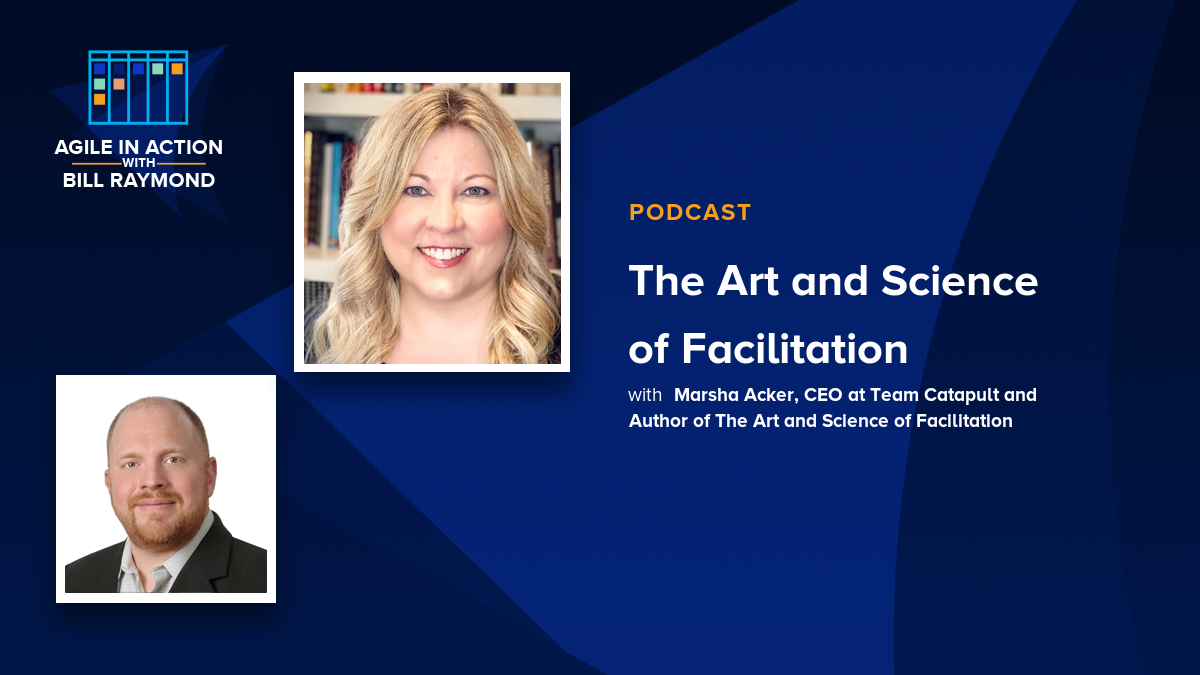
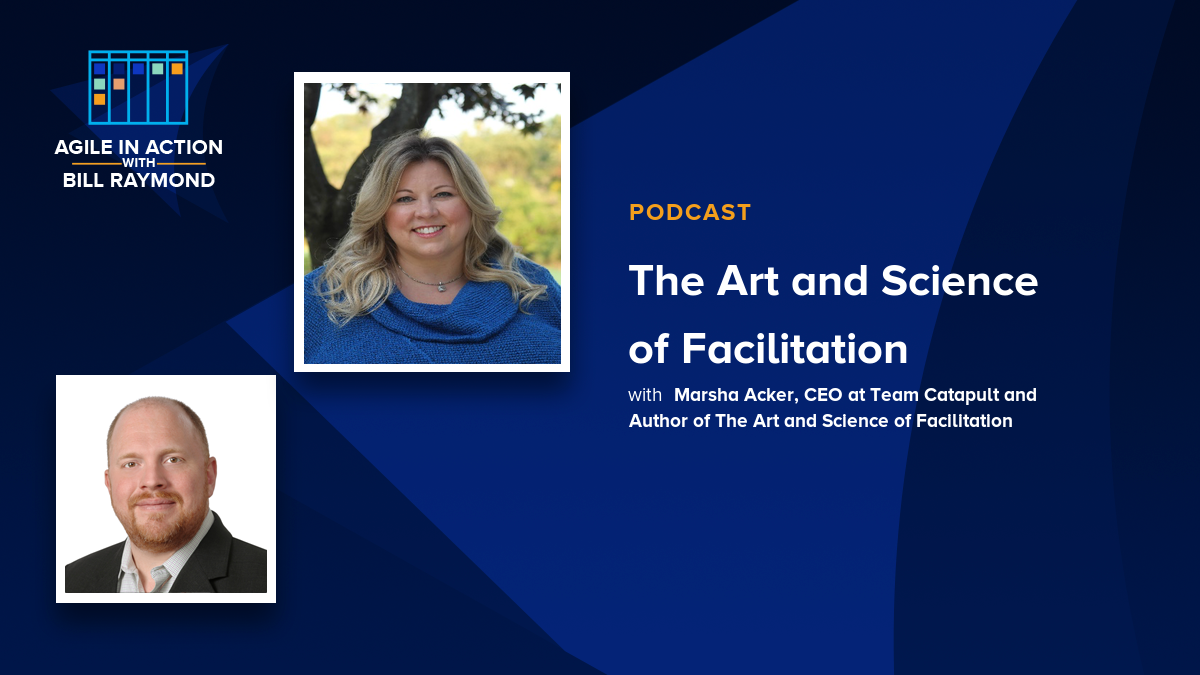
Jekyll build from Action

Changed region(s): [[0.2467, 0.1244, 0.4933, 0.56]]

diff --git a/guestphotos.html b/guestphotos.html
@@ -24,7 +24,7 @@
       
       <h2>Title:The Art and Science of Facilitation</h2># Guests:1<p>Guest: Marsha Acker, CEO at Team Catapult and Author of The Art and Science of Facilitation</p>
         <p>Photo:</p>
-        <p><img src="/uploads/marsha.jpg" alt=""> </p><h2>Title:Risk-driven security in agile software development</h2># Guests:1<p>Guest:Dan Ionita, Consultant and Trainer</p>
+        <p><img src="/uploads/marsha-acker.png" alt=""> </p><h2>Title:Risk-driven security in agile software development</h2># Guests:1<p>Guest:Dan Ionita, Consultant and Trainer</p>
         <p>Photo:</p>
         <p><img src="/uploads/ionitia.jpg" alt=""> </p><h2>Title:Introducing Objectives and Key Results (OKRs)</h2># Guests:1<p>Guest:Jeff Gothelf, Author, Consultant, and Speaker</p>
         <p>Photo:</p>

diff --git a/admin.html b/admin.html
@@ -52,7 +52,7 @@
         
         <div class="gcp-cards-1">
             
-            <img src="/uploads/marsha.jpg" alt="" class="gcp-card"></div>
+            <img src="/uploads/marsha-acker.png" alt="" class="gcp-card"></div>
         <div class="gcp-play"><img src="/assets/guests-card/play-circle.png" alt="" class="gcp-play-image">
         </div>
     </div><div class="guests-card-title-container"><p class="gct-title"><span><a class="gct-title-href" href="/agile-in-action-podcast/2022/04/12/the-art-and-science-of-facilitation.html">The Art and Science of Facilitation</a></span></p>
